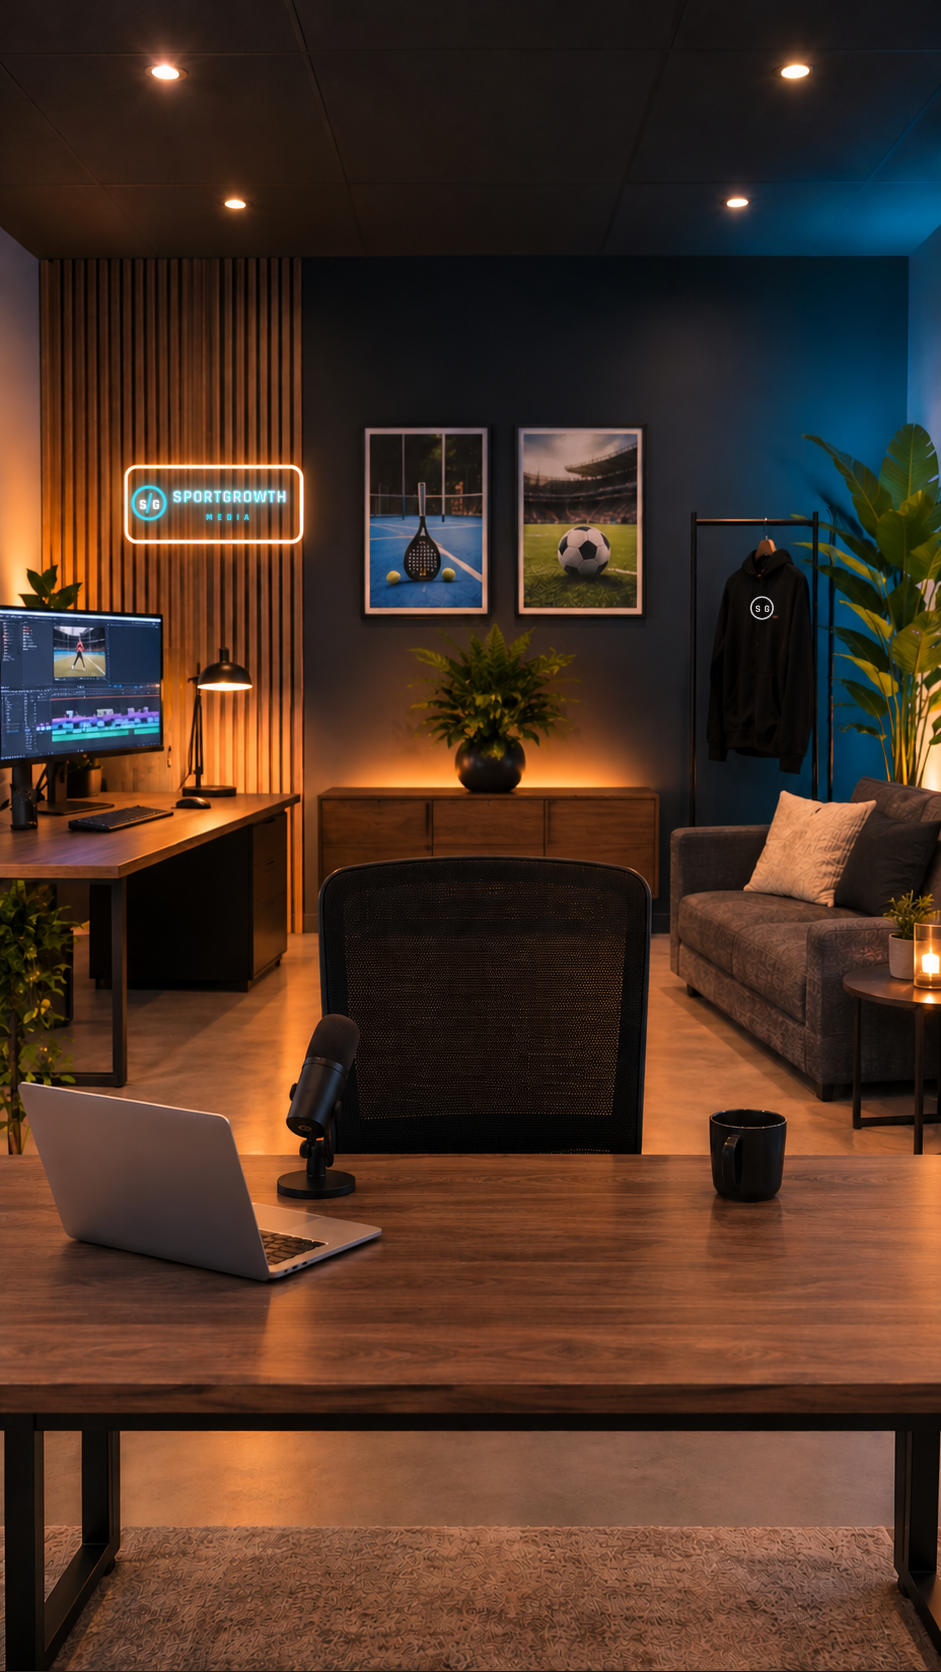
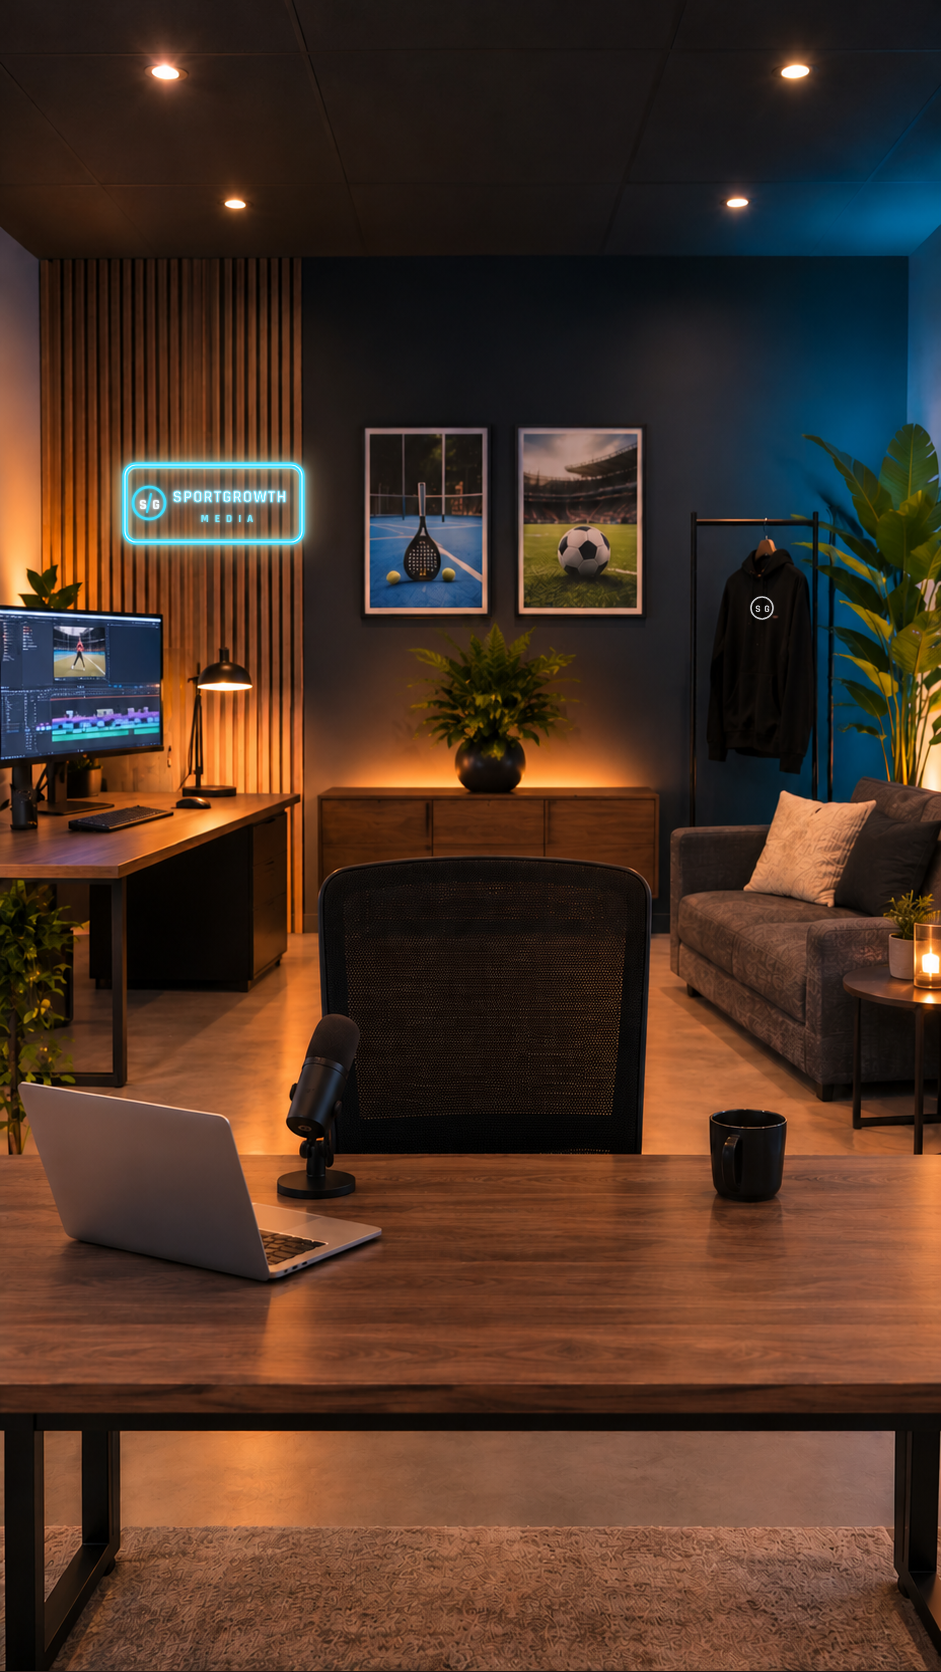
Studio v2: neonkader in SGM-blauw, MEDIA groter
Claude-Session: https://claude.ai/code/session_01QkSWZzWLTduRQtPp2zathG

Changed region(s): [[0.0925, 0.2488, 0.339, 0.3421]]

diff --git a/instagram/studio/v2/neon-groot.js b/instagram/studio/v2/neon-groot.js
@@ -8,10 +8,11 @@ const html=`<style>@font-face{font-family:Rj;src:url(${rj})}body{margin:0}</styl
 <svg width="941" height="1672" style="position:absolute;inset:0"><defs>
 <filter id="g" x="-50%" y="-50%" width="200%" height="200%"><feGaussianBlur stdDeviation="1.2" result="a"/><feGaussianBlur stdDeviation="5" result="b"/><feGaussianBlur stdDeviation="14" result="c"/><feMerge><feMergeNode in="c"/><feMergeNode in="b"/><feMergeNode in="a"/><feMergeNode in="SourceGraphic"/></feMerge></filter></defs>
 <g filter="url(#g)" font-family="Rj" text-anchor="middle">
+<rect x="125" y="465" width="177" height="77" rx="11" fill="none" stroke="#3fe0ff" stroke-width="5"/><rect x="125" y="465" width="177" height="77" rx="11" fill="none" stroke="#e9fcff" stroke-width="1.2"/>
 <circle cx="149" cy="503" r="16" fill="none" stroke="#3fe0ff" stroke-width="2.6"/>
 <text x="143" y="509" font-size="14" fill="#f2fbff">S</text><line x1="151" y1="494" x2="147" y2="512" stroke="#3fe0ff" stroke-width="2" stroke-linecap="round"/><text x="156" y="509" font-size="14" fill="#f2fbff">G</text>
 <text x="230" y="502" font-size="17" letter-spacing="1" fill="#f2fbff" stroke="#3fe0ff" stroke-width=".5">SPORTGROWTH</text>
-<text x="230" y="520" font-size="9" letter-spacing="5" fill="#3fe0ff">MEDIA</text>
+<text x="230" y="522" font-size="11" letter-spacing="6" fill="#7eeaff">MEDIA</text>
 </g>
 <g opacity=".85" font-family="Rj" text-anchor="middle"><circle cx="762" cy="608" r="11" fill="none" stroke="#e8eaee" stroke-width="1.6"/><text x="758" y="612" font-size="10" fill="#e8eaee">S</text><text x="767" y="612" font-size="10" fill="#e8eaee">G</text></g>
 </svg></div>`;
